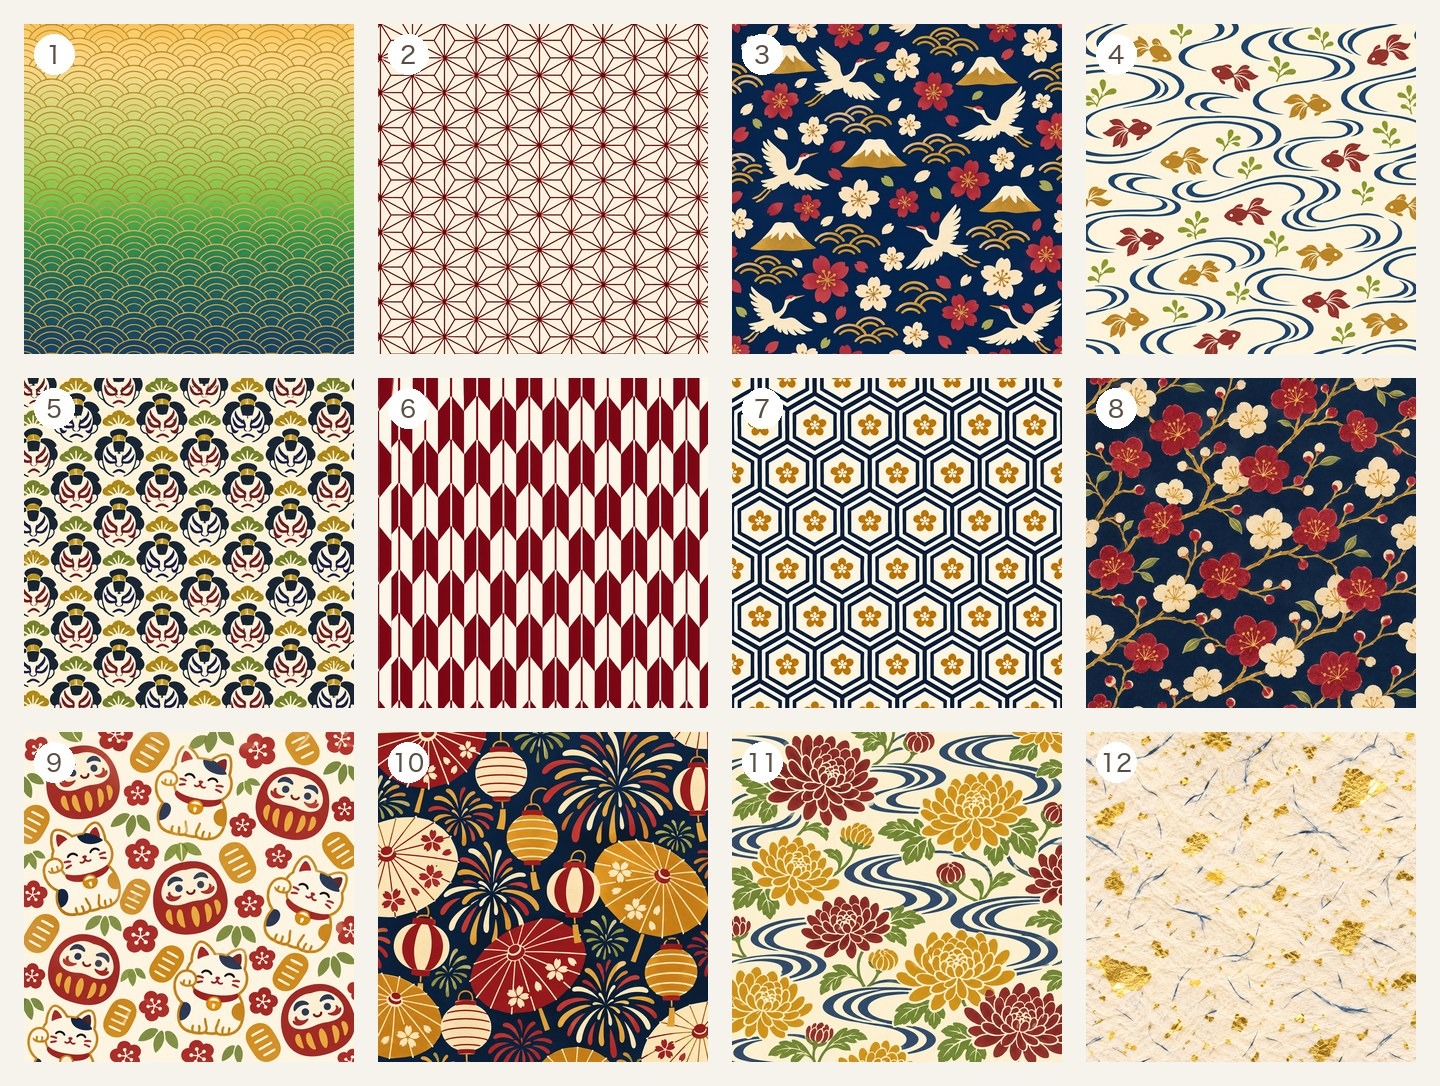
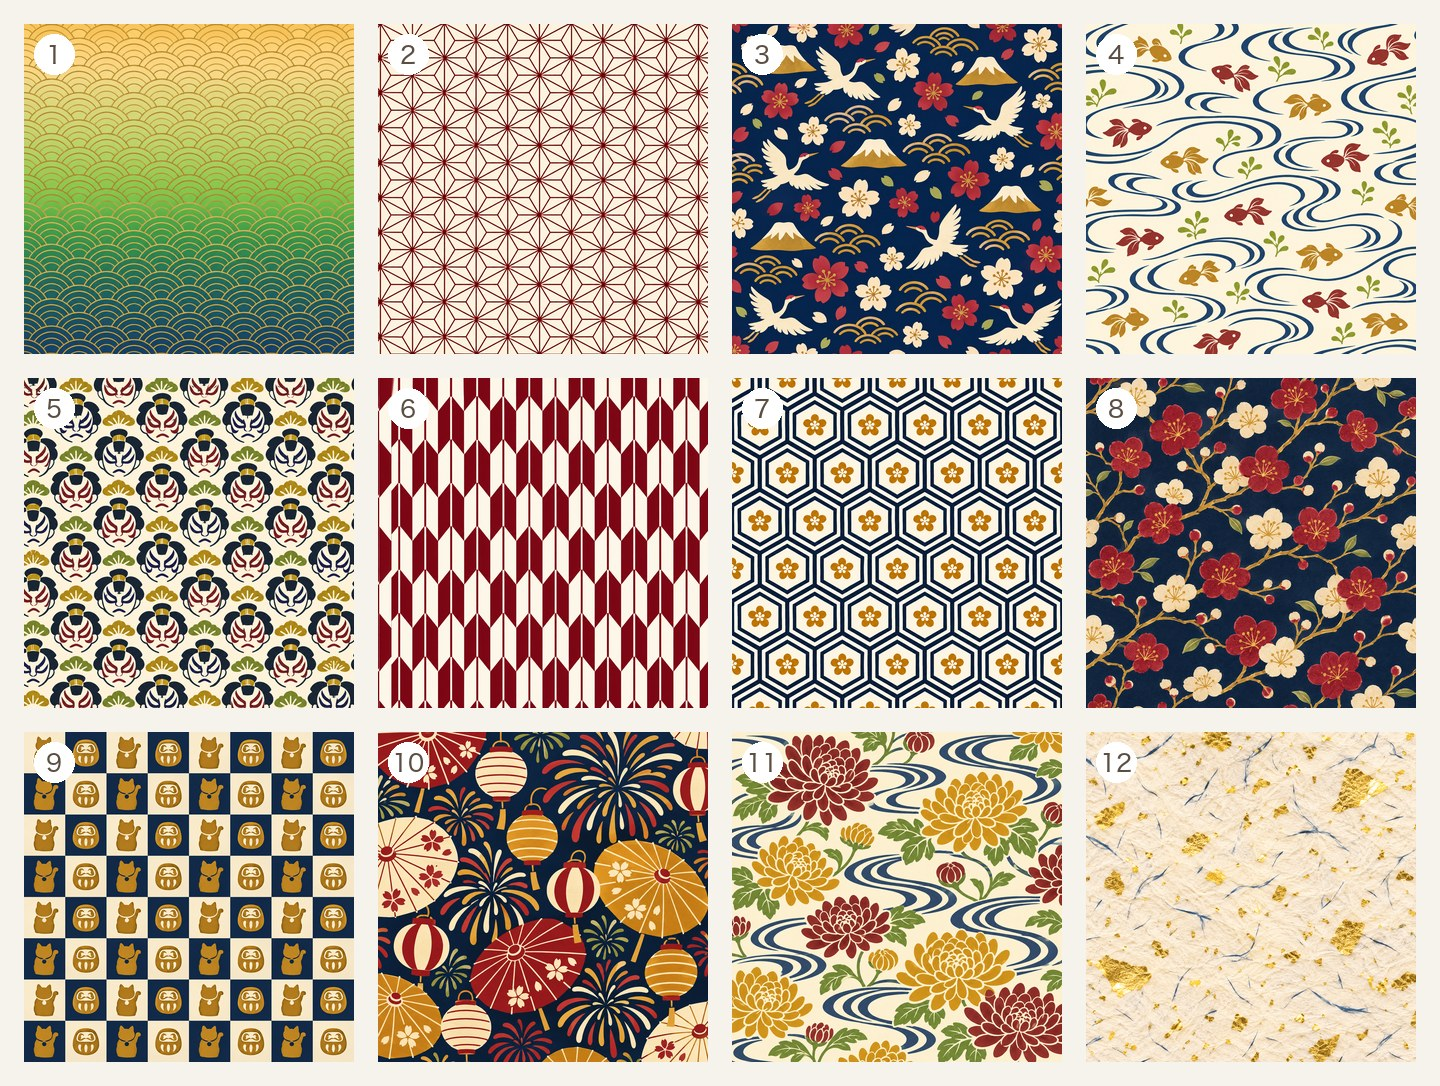
🕒 2026-11-14 21:48:40
案9を招き猫とだるまの市松に差し替え

Changed region(s): [[0.0, 0.6685, 0.25, 1.0]]

diff --git a/js/content.js b/js/content.js
@@ -71,7 +71,7 @@ const CONTENT = {
       figures: [
         {
           src: "assets/images/dp-set-12.jpg",
-          alt: "今回の作例。和柄のデジタルペーパー12枚。夕焼けグラデーションの青海波、麻の葉、富士山と桜と鶴、小さな金魚と流水、歌舞伎の隈取、矢絣、亀甲と小花、梅と枝、招き猫とだるま、提灯と和傘と花火、菊と流水、金箔を散らした和紙が4列3段に並んでいる",
+          alt: "今回の作例。和柄のデジタルペーパー12枚。夕焼けグラデーションの青海波、麻の葉、富士山と桜と鶴、小さな金魚と流水、歌舞伎の隈取、矢絣、亀甲と小花、梅と枝、招き猫とだるまの市松、提灯と和傘と花火、菊と流水、金箔を散らした和紙が4列3段に並んでいる",
           caption: "今回の作例。藍色・生成り・えんじ色・金茶・若草色でそろえた、和柄12枚です。",
           zoom: true,
         },
@@ -113,7 +113,7 @@ const CONTENT = {
           "案6　矢絣（やがすり）",
           "案7　亀甲と小花",
           "案8　梅と枝",
-          "案9　招き猫とだるま",
+          "案9　招き猫とだるまの市松",
           "案10　提灯と和傘と花火",
           "案11　菊と流水",
           "案12　金箔を散らした和紙",

diff --git a/docs/requirements.md b/docs/requirements.md
@@ -29,6 +29,6 @@
 
 ## 5. 作例
 
-和柄のデジタルペーパー12枚（夕焼け青海波・麻の葉・富士山と桜と鶴・金魚と流水・歌舞伎の隈取・矢絣・亀甲・梅・招き猫とだるま・提灯と和傘と花火・菊と流水・金箔和紙）はCodexの画像生成で作成（和柄12種・藍／生成り／えんじ／金茶／若草・各1254×1254px）。実際にChatGPTで同じプロンプトを実行した結果とは異なる場合がある。
+和柄のデジタルペーパー12枚（夕焼け青海波・麻の葉・富士山と桜と鶴・金魚と流水・歌舞伎の隈取・矢絣・亀甲・梅・招き猫とだるまの市松・提灯と和傘と花火・菊と流水・金箔和紙）はCodexの画像生成で作成（和柄12種・藍／生成り／えんじ／金茶／若草・各1254×1254px）。実際にChatGPTで同じプロンプトを実行した結果とは異なる場合がある。
 
 作例の12案は制作側で設計し、各案を②相当のプロンプトで画像化した（ChatGPTが返した案ではない）。ページでは「12案の例（今回の作例）」と表記。
